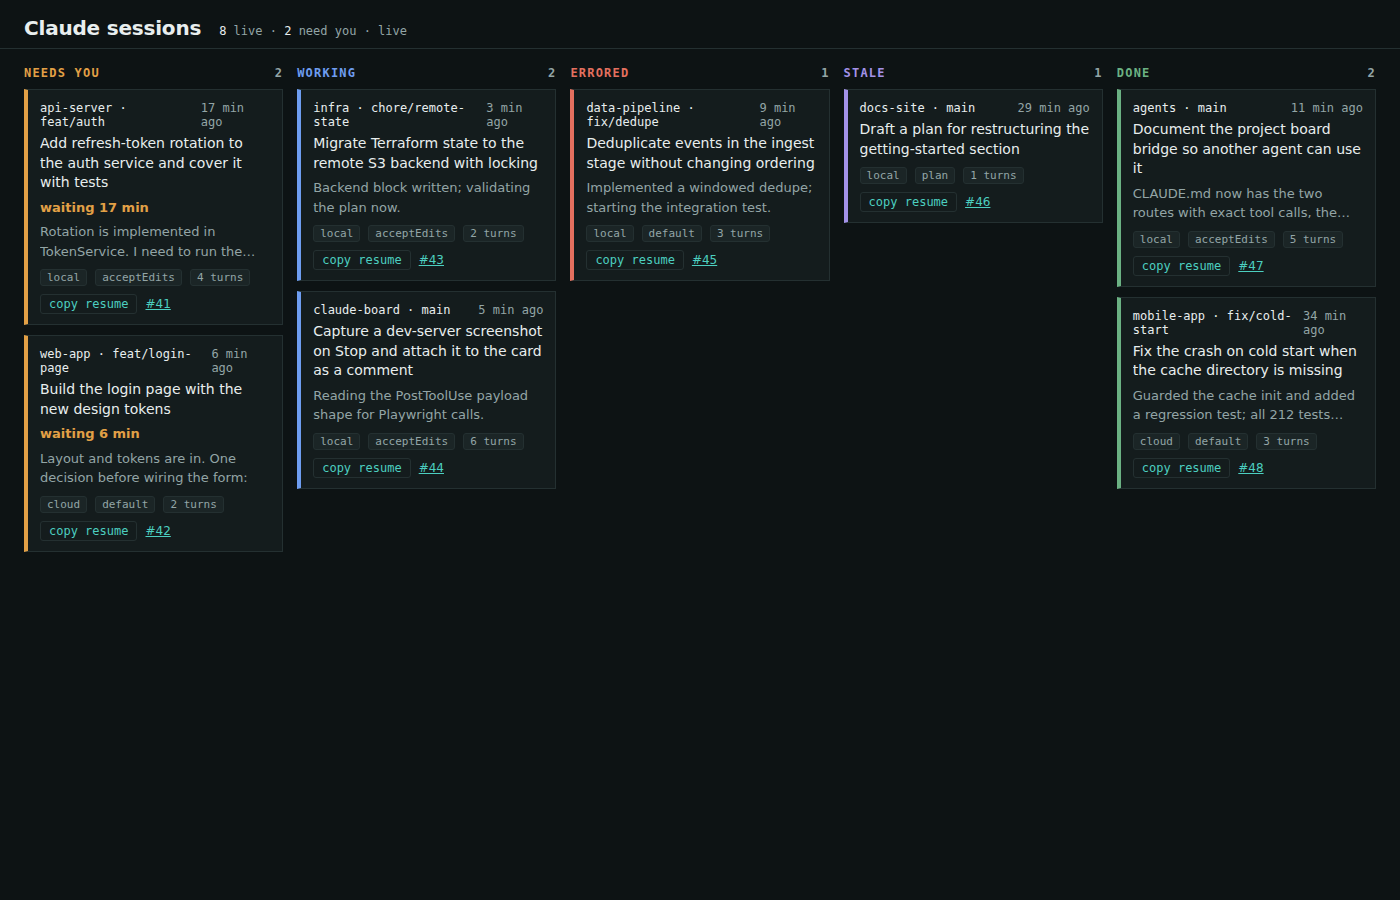
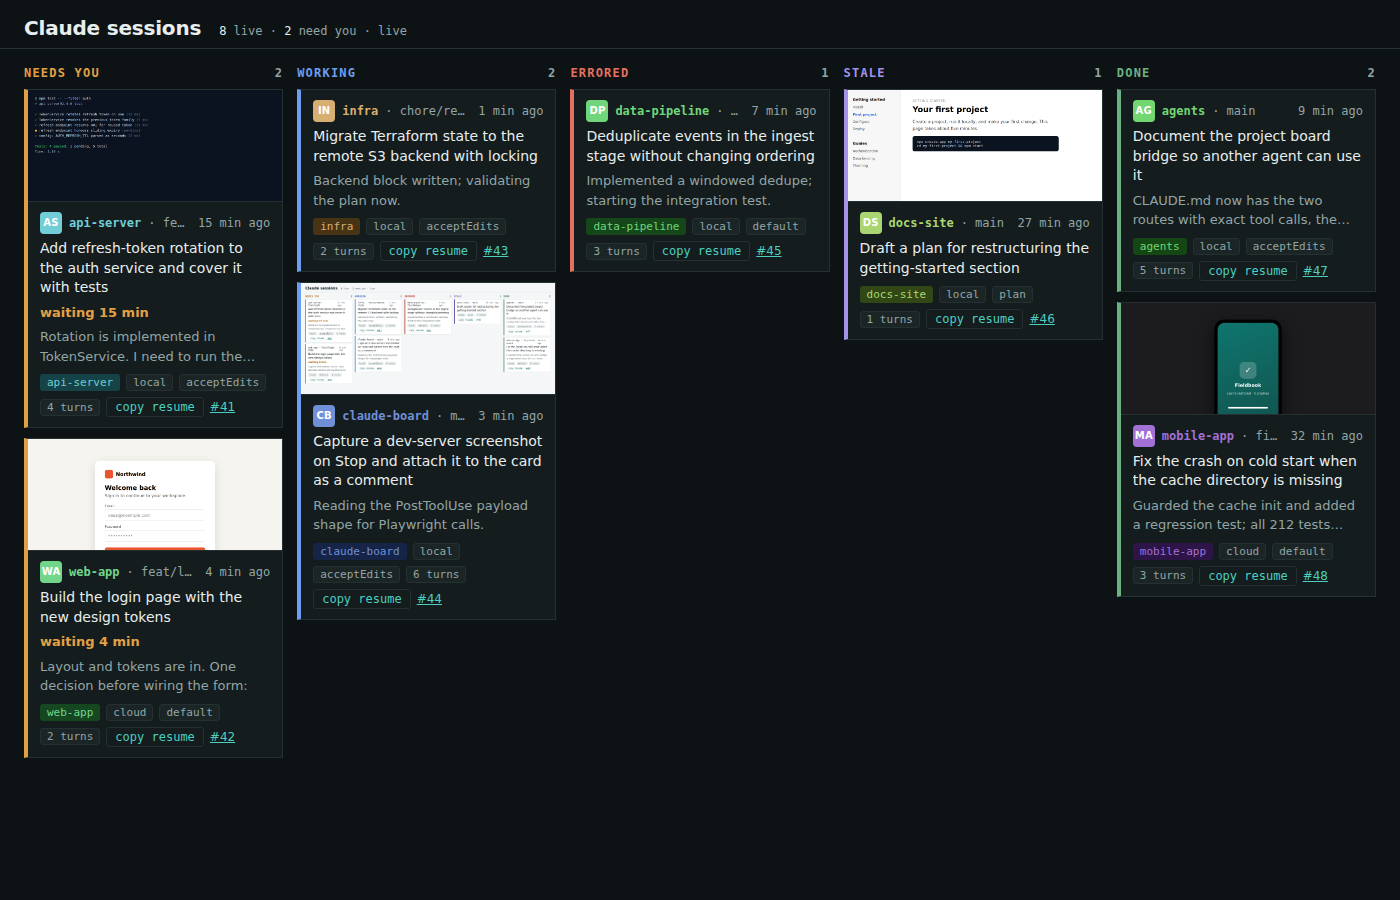
claude-board: per-project colors and card thumbnails (#9)
Status was the only color on a card, so two Working sessions on
different projects read identically. Each repository now gets a hue
derived from its name (src/color.js), the same on both surfaces: the
repo:<name> label color on GitHub, and the monogram tile, name and
project chip on the dashboard. Status keeps the left stripe.

Sessions can carry a thumbnail, shown full-width on the dashboard card.
Two intake paths: a session that writes .claude-board/thumbnail.png in
its working directory sets its own card art via the PostToolUse hook
already installed, and POST /sessions/:id/thumbnail accepts a PNG, JPEG
or WebP body (3 MB cap, same auth rule as /event). Files live under
<dataDir>/thumbs and are served at /thumbs/<file>. The issue body embeds
an image only when a public thumbnailUrl is known; nothing sets one yet.

Long repository names no longer break mid-word in the card header; the
branch ellipsizes instead and carries the full name as a tooltip.

README documents both features. Screenshots regenerated with example
sessions that carry thumbnails, plus a 2x close-up of the Needs-you
column. Four new unit tests cover hue determinism and spread, hex
conversion, label colors and monograms.

Claude-Session: https://claude.ai/code/session_01REbsjmfsB5A4AvEPk31Y9Q

Changed region(s): [[0.0, 0.0933, 0.9829, 0.84], [0.7986, 0.3422, 0.9829, 0.6533], [0.1536, 0.0933, 0.1843, 0.1244]]

diff --git a/claude-board/src/dashboard.js b/claude-board/src/dashboard.js
@@ -1,11 +1,13 @@
+import { projectHue, monogram } from './color.js';
+
 export function dashboardHtml() {
   return `<!doctype html>
 <html lang="en"><head><meta charset="utf-8"><meta name="viewport" content="width=device-width,initial-scale=1">
 <title>Claude sessions</title>
 <style>
-:root{--ground:#F4F6F7;--surface:#fff;--surface-2:#EAEFEF;--ink:#111819;--muted:#5C6B6D;--rule:#DBE2E2;--accent:#0F6E68;
+:root{--ground:#F4F6F7;--surface:#fff;--surface-2:#EAEFEF;--ink:#111819;--muted:#5C6B6D;--rule:#DBE2E2;--accent:#0F6E68;--psat:58%;--plum:40%;--pchip:92%;
  --working:#2A63C7;--needs_you:#B4650B;--errored:#B23A2E;--done:#3F7A52;--stale:#6E5BB0;--closed:#6B7280}
-@media (prefers-color-scheme:dark){:root{--ground:#0D1314;--surface:#141C1D;--surface-2:#1B2526;--ink:#E8EEEE;--muted:#93A5A6;--rule:#243031;--accent:#4CCFC0;
+@media (prefers-color-scheme:dark){:root{--ground:#0D1314;--surface:#141C1D;--surface-2:#1B2526;--ink:#E8EEEE;--muted:#93A5A6;--rule:#243031;--accent:#4CCFC0;--psat:55%;--plum:64%;--pchip:18%;
  --working:#6E9DF0;--needs_you:#E2A046;--errored:#E4705F;--done:#6BB183;--stale:#A392E8;--closed:#8B93A1}}
 *{box-sizing:border-box}body{margin:0;background:var(--ground);color:var(--ink);font:15px/1.5 "IBM Plex Sans",system-ui,sans-serif}
 header{display:flex;align-items:baseline;gap:18px;padding:18px 24px 10px;border-bottom:1px solid var(--rule)}
@@ -14,14 +16,20 @@ h1{font:600 20px/1 "IBM Plex Sans Condensed","IBM Plex Sans",system-ui,sans-seri
 .board{display:grid;grid-template-columns:repeat(auto-fit,minmax(236px,1fr));gap:14px;padding:18px 24px 40px}
 .col h2{font:600 12px/1 ui-monospace,Menlo,monospace;letter-spacing:.1em;text-transform:uppercase;color:var(--c);margin:0 0 10px;display:flex;justify-content:space-between}
 .col h2 span{color:var(--muted)}
-.card{background:var(--surface);border:1px solid var(--rule);border-left:4px solid var(--c);padding:11px 12px 10px;margin-bottom:10px;display:flex;flex-direction:column;gap:5px}
-.card .top{display:flex;justify-content:space-between;gap:8px;font:12px ui-monospace,Menlo,monospace;color:var(--muted)}
-.card .top b{color:var(--ink);font-weight:500}
+.card{--p:hsl(var(--h) var(--psat) var(--plum));background:var(--surface);border:1px solid var(--rule);border-left:4px solid var(--c);margin-bottom:10px;display:flex;flex-direction:column;overflow:hidden}
+.card .thumb{display:block;width:100%;height:112px;object-fit:cover;object-position:top;border-bottom:1px solid var(--rule);background:var(--surface-2)}
+.card .body{padding:10px 12px 10px;display:flex;flex-direction:column;gap:5px}
+.card .top{display:flex;align-items:center;gap:7px;font:12px ui-monospace,Menlo,monospace;color:var(--muted);min-width:0}
+.card .top .repo{color:var(--p);font-weight:600;white-space:nowrap}
+.card .top .branch{flex:1;min-width:0;overflow:hidden;text-overflow:ellipsis;white-space:nowrap}
+.card .top .when{margin-left:auto;white-space:nowrap;flex:none}
+.mono{flex:none;width:22px;height:22px;border-radius:4px;background:var(--p);color:#fff;font:700 10px/22px "IBM Plex Sans Condensed","IBM Plex Sans",system-ui,sans-serif;text-align:center;letter-spacing:.02em}
 .card .task{font-size:14px;line-height:1.4;display:-webkit-box;-webkit-line-clamp:3;-webkit-box-orient:vertical;overflow:hidden}
 .card .wait{color:var(--needs_you);font-weight:600;font-size:13px}
 .card .msg{font-size:13px;color:var(--muted);display:-webkit-box;-webkit-line-clamp:2;-webkit-box-orient:vertical;overflow:hidden}
-.card .foot{display:flex;gap:8px;align-items:center;flex-wrap:wrap;margin-top:3px}
+.card .foot{display:flex;gap:6px;align-items:center;flex-wrap:wrap;margin-top:3px}
 .chip{font:11px ui-monospace,Menlo,monospace;background:var(--surface-2);border:1px solid var(--rule);padding:1px 6px;border-radius:3px;color:var(--muted)}
+.chip.p{background:hsl(var(--h) var(--psat) var(--pchip));border-color:transparent;color:var(--p)}
 button{font:12px ui-monospace,Menlo,monospace;background:none;border:1px solid var(--rule);color:var(--accent);padding:2px 8px;border-radius:3px;cursor:pointer}
 button:hover{border-color:var(--accent)}a{color:var(--accent);font-size:12px}
 .empty{color:var(--muted);font-size:13px;border:1px dashed var(--rule);padding:10px 12px}
@@ -30,6 +38,8 @@ button:hover{border-color:var(--accent)}a{color:var(--accent);font-size:12px}
 <header><h1>Claude sessions</h1><div class="meta" id="meta">connecting…</div></header>
 <div class="board" id="board"></div>
 <script>
+${projectHue.toString()}
+${monogram.toString()}
 const COLS=[['needs_you','Needs you'],['working','Working'],['errored','Errored'],['stale','Stale'],['done','Done']];
 const esc=s=>String(s??'').replace(/[&<>"]/g,c=>({'&':'&amp;','<':'&lt;','>':'&gt;','"':'&quot;'}[c]));
 const ago=ms=>{const m=Math.round((Date.now()-ms)/60000);return m<1?'just now':m<60?m+' min ago':Math.round(m/60)+' h ago'};
@@ -43,14 +53,15 @@ function render(){
     const col=document.createElement('div');col.className='col';col.style.setProperty('--c','var(--'+key+')');
     col.innerHTML='<h2>'+label+'<span>'+items.length+'</span></h2>'+(items.length?'':'<div class="empty">—</div>');
     for(const s of items){
-      const d=document.createElement('div');d.className='card';d.style.setProperty('--c','var(--'+key+')');
+      const d=document.createElement('div');d.className='card';d.style.setProperty('--c','var(--'+key+')');d.style.setProperty('--h',projectHue(s.repo||''));
       const wait=key==='needs_you'&&s.blockedSince?'<div class="wait">waiting '+Math.round((now-s.blockedSince)/60000)+' min</div>':'';
       const resume=s.surface==='cloud'?'claude --teleport '+s.id:'claude --resume '+s.id;
-      d.innerHTML='<div class="top"><b>'+esc(s.repo||'?')+(s.branch?' · '+esc(s.branch):'')+'</b><span>'+ago(s.lastEventAt)+'</span></div>'
+      const thumb=s.thumbnail?'<img class="thumb" src="/thumbs/'+esc(s.thumbnail)+'?v='+(s.thumbnailAt||0)+'" alt="">':'';
+      d.innerHTML=thumb+'<div class="body"><div class="top"><span class="mono">'+esc(monogram(s.repo))+'</span><span class="repo">'+esc(s.repo||'?')+'</span>'+(s.branch?'<span class="branch" title="'+esc(s.branch)+'">· '+esc(s.branch)+'</span>':'<span class="branch"></span>')+'<span class="when">'+ago(s.lastEventAt)+'</span></div>'
        +'<div class="task">'+esc(s.currentPrompt||'(no prompt yet)')+'</div>'+wait
        +(s.lastAssistantMessage?'<div class="msg">'+esc(s.lastAssistantMessage)+'</div>':'')
-       +'<div class="foot"><span class="chip">'+esc(s.surface)+'</span>'+(s.permissionMode?'<span class="chip">'+esc(s.permissionMode)+'</span>':'')+'<span class="chip">'+s.turnCount+' turns</span>'
-       +'<button data-cmd="'+esc(resume)+'">copy resume</button>'+(s.issue&&s.issue.url?'<a href="'+esc(s.issue.url)+'" target="_blank">#'+s.issue.number+'</a>':'')+'</div>';
+       +'<div class="foot"><span class="chip p">'+esc(s.repo||'?')+'</span><span class="chip">'+esc(s.surface)+'</span>'+(s.permissionMode?'<span class="chip">'+esc(s.permissionMode)+'</span>':'')+'<span class="chip">'+s.turnCount+' turns</span>'
+       +'<button data-cmd="'+esc(resume)+'">copy resume</button>'+(s.issue&&s.issue.url?'<a href="'+esc(s.issue.url)+'" target="_blank">#'+s.issue.number+'</a>':'')+'</div></div>';
       col.appendChild(d);
     }
     b.appendChild(col);

diff --git a/claude-board/src/server.js b/claude-board/src/server.js
@@ -1,13 +1,21 @@
 import http from 'node:http';
+import fs from 'node:fs';
+import path from 'node:path';
 import { apply, sweepStale } from './machine.js';
 import { gitInfo } from './git.js';
 import { dashboardHtml } from './dashboard.js';
 
 const LOOPBACK = new Set(['127.0.0.1', '::1', '::ffff:127.0.0.1']);
+const IMAGE_TYPES = { 'image/png': 'png', 'image/jpeg': 'jpg', 'image/webp': 'webp' };
+const IMAGE_EXT = { png: 'image/png', jpg: 'image/jpeg', jpeg: 'image/jpeg', webp: 'image/webp' };
+const THUMB_CONVENTION = /[\\/]\.claude-board[\\/]thumbnail\.(png|jpe?g|webp)$/i;
+const MAX_THUMB = 3 * 1024 * 1024;
 
 /**
  * The daemon's HTTP surface:
  *   POST /event         hook receiver (Claude Code http hooks)
+ *   POST /sessions/:id/thumbnail   image body (png/jpeg/webp) → card thumbnail
+ *   GET  /thumbs/:file  thumbnails
  *   GET  /              dashboard
  *   GET  /events        SSE stream of full state
  *   GET  /api/sessions  JSON
@@ -15,6 +23,17 @@ const LOOPBACK = new Set(['127.0.0.1', '::1', '::ffff:127.0.0.1']);
  */
 export function createServer({ cfg, store, syncer, log = () => {} }) {
   const clients = new Set();
+  const thumbDir = path.join(cfg.dataDir, 'thumbs');
+  fs.mkdirSync(thumbDir, { recursive: true });
+
+  /** Store an image for a session and point the card at it. */
+  function setThumbnail(s, buf, ext) {
+    const file = `${s.id}.${ext}`;
+    fs.writeFileSync(path.join(thumbDir, file), buf);
+    s.thumbnail = file; s.thumbnailAt = Date.now();
+    store.put(s);
+    syncer.markDirty(s.id);
+  }
 
   const snapshot = () => ({
     sessions: store.list(),
@@ -52,6 +71,18 @@ export function createServer({ cfg, store, syncer, log = () => {} }) {
     const prev = store.get(ev.session_id);
     const next = apply(prev, ev, now, { needsYou: cfg.needsYou });
     store.put(next);
+
+    // Convention: a session that writes .claude-board/thumbnail.png in its cwd sets its own card art.
+    if (ev.hook_event_name === 'PostToolUse' && ev.__surface === 'local') {
+      const fp = ev.tool_input?.file_path;
+      const m = fp && fp.match(THUMB_CONVENTION);
+      if (m && fs.existsSync(fp)) {
+        try {
+          const st = fs.statSync(fp);
+          if (st.size <= MAX_THUMB) { setThumbnail(next, fs.readFileSync(fp), m[1].toLowerCase().replace('jpeg', 'jpg')); log(`thumbnail: ${next.id.slice(0, 8)} from ${fp}`); }
+        } catch (e) { log('thumbnail: ' + e.message); }
+      }
+    }
     syncer.markDirty(next.id);
     broadcast();
     log(`event: ${ev.hook_event_name}${ev.notification_type ? '/' + ev.notification_type : ''} ${next.id.slice(0, 8)} → ${next.status}`);
@@ -72,6 +103,26 @@ export function createServer({ cfg, store, syncer, log = () => {} }) {
       req.on('data', c => { raw += c; if (raw.length > 5e6) req.destroy(); });
       req.on('end', () => handleEvent(req, res, raw).catch(e => { log('event error: ' + e.message); reply(res, 500, { error: e.message }); }));
       return;
+    }
+    const thumbPost = req.method === 'POST' && url.pathname.match(/^\/sessions\/([^/]+)\/thumbnail$/);
+    if (thumbPost) {
+      if (!authorized(req)) return reply(res, 403, { error: 'unauthorized' });
+      const ext = IMAGE_TYPES[(req.headers['content-type'] || '').split(';')[0].trim()];
+      if (!ext) return reply(res, 415, { error: 'send image/png, image/jpeg or image/webp' });
+      const s = store.get(decodeURIComponent(thumbPost[1]));
+      if (!s) return reply(res, 404, { error: 'unknown session' });
+      const chunks = []; let size = 0;
+      req.on('data', c => { size += c.length; if (size > MAX_THUMB) { req.destroy(); return; } chunks.push(c); });
+      req.on('end', () => { setThumbnail(s, Buffer.concat(chunks), ext); broadcast(); reply(res, 200, { thumbnail: `/thumbs/${s.thumbnail}` }); });
+      return;
+    }
+    if (req.method === 'GET' && url.pathname.startsWith('/thumbs/')) {
+      const file = path.basename(url.pathname);
+      const type = IMAGE_EXT[file.split('.').pop().toLowerCase()];
+      const full = path.join(thumbDir, file);
+      if (!type || !fs.existsSync(full)) return reply(res, 404, { error: 'not found' });
+      res.writeHead(200, { 'Content-Type': type, 'Cache-Control': 'no-cache' });
+      return fs.createReadStream(full).pipe(res);
     }
     if (req.method === 'GET' && url.pathname === '/health') return reply(res, 200, { ok: true, sessions: store.list().length, dryRun: cfg.dryRun });
     if (req.method === 'GET' && url.pathname === '/api/sessions') return reply(res, 200, snapshot());

diff --git a/claude-board/test/color.test.js b/claude-board/test/color.test.js
@@ -1,0 +1,30 @@
+import test from 'node:test';
+import assert from 'node:assert/strict';
+import { projectHue, projectHex, hslHex, monogram } from '../src/color.js';
+import { labelDef } from '../src/render.js';
+
+test('project hue is deterministic and spread', () => {
+  assert.equal(projectHue('api-server'), projectHue('api-server'));
+  const hues = ['api-server', 'web-app', 'infra', 'claude-board', 'agents', 'docs-site', 'mobile-app', 'data-pipeline'].map(projectHue);
+  assert.equal(new Set(hues).size, hues.length, 'eight common names get eight distinct hues: ' + hues.join(','));
+  for (const h of hues) assert.ok(h >= 0 && h < 360);
+});
+
+test('hslHex produces valid hex and known anchors', () => {
+  assert.equal(hslHex(0, 100, 50), 'FF0000');
+  assert.equal(hslHex(120, 100, 25), '008000');
+  assert.match(projectHex('anything'), /^[0-9A-F]{6}$/);
+});
+
+test('repo labels take the project color; other kinds keep theirs', () => {
+  assert.equal(labelDef('repo:api-server').color, projectHex('api-server'));
+  assert.notEqual(labelDef('repo:api-server').color, labelDef('repo:web-app').color);
+  assert.equal(labelDef('surface:cloud').color, '4B5563');
+});
+
+test('monogram', () => {
+  assert.equal(monogram('api-server'), 'AS');
+  assert.equal(monogram('agents'), 'AG');
+  assert.equal(monogram('claude_board.v2'), 'CB');
+  assert.equal(monogram(''), '?');
+});

diff --git a/claude-board/src/render.js b/claude-board/src/render.js
@@ -1,4 +1,5 @@
 import { STATUS_META } from './machine.js';
+import { projectHex } from './color.js';
 
 const clip = (s, n) => {
   if (!s) return '';
@@ -44,8 +45,9 @@ export function labelDef(name) {
     const meta = STATUS_META[key];
     return { name, color: meta ? meta.hex : '6B7280', description: meta ? `Session is ${meta.label.toLowerCase()}` : '' };
   }
-  const palette = { repo: '0E7490', surface: '4B5563', mode: '7C3AED', model: '0F766E' };
-  const desc = { repo: 'Repository the session is working in', surface: 'Where the session runs', mode: 'Permission mode', model: 'Model' };
+  if (kind === 'repo') return { name, color: projectHex(val), description: `Repository: ${val}` };
+  const palette = { surface: '4B5563', mode: '7C3AED', model: '0F766E' };
+  const desc = { surface: 'Where the session runs', mode: 'Permission mode', model: 'Model' };
   return { name, color: palette[kind] || '6B7280', description: desc[kind] || '' };
 }
 
@@ -90,6 +92,7 @@ export function body(s, { now = Date.now(), issueRepo = '' } = {}) {
   }
   if (s.cwd) out.push(`\`cd ${s.cwd}\``);
   out.push('');
+  if (s.thumbnailUrl) { out.push(`![Latest screenshot](${s.thumbnailUrl})`); out.push(''); }
   out.push('## Current task');
   out.push(s.currentPrompt ? quote(clip(s.currentPrompt, 1500)) : '_No prompt received yet._');
   out.push('');

diff --git a/claude-board/src/color.js b/claude-board/src/color.js
@@ -1,0 +1,29 @@
+/**
+ * Deterministic per-project color. The same repo name always yields the same
+ * hue, on the board (label color) and on the dashboard alike. Kept dependency
+ * free and tiny so the dashboard can inline it.
+ */
+export function projectHue(name) {
+  let h = 2166136261;
+  for (const ch of String(name || '')) { h ^= ch.charCodeAt(0); h = Math.imul(h, 16777619) >>> 0; }
+  return h % 360;
+}
+
+/** HSL → 6-digit hex without '#'. */
+export function hslHex(h, s, l) {
+  s /= 100; l /= 100;
+  const k = n => (n + h / 30) % 12;
+  const a = s * Math.min(l, 1 - l);
+  const f = n => Math.round(255 * (l - a * Math.max(-1, Math.min(k(n) - 3, Math.min(9 - k(n), 1)))));
+  return [f(0), f(8), f(4)].map(v => v.toString(16).padStart(2, '0')).join('').toUpperCase();
+}
+
+/** Label color for a repo: saturated enough to read as a hue, dark enough for white text. */
+export function projectHex(name) { return hslHex(projectHue(name), 58, 38); }
+
+/** Two-letter monogram for a repo name: "api-server" → "AS", "agents" → "AG". */
+export function monogram(name) {
+  const parts = String(name || '?').split(/[-_./\s]+/).filter(Boolean);
+  const m = parts.length >= 2 ? parts[0][0] + parts[1][0] : (parts[0] || '?').slice(0, 2);
+  return m.toUpperCase();
+}

diff --git a/claude-board/src/machine.js b/claude-board/src/machine.js
@@ -45,6 +45,9 @@ export function newSession(id, now) {
     tasks: [],          // {id, description, done}
     notifications: [],  // {type, message, at}
     issue: null,        // {number, url, nodeId, itemId}
+    thumbnail: null,    // file name under <dataDir>/thumbs, served at /thumbs/<file>
+    thumbnailAt: null,
+    thumbnailUrl: null, // public URL when one exists (for the issue body)
     lastSeenCommentAt: null,
   };
 }

diff --git a/claude-board/README.md b/claude-board/README.md
@@ -25,12 +25,17 @@ Zero dependencies. Node 20+.
 
 ## What it looks like
 
-The local dashboard, with example sessions in every column. Needs-you cards sort
-by how long they've been waiting; every card has a copy-to-clipboard resume command.
+The local dashboard, with example sessions in every column. The left stripe is the
+column's status color; each project has its own color for the monogram tile, name
+and chip, so `api-server` looks the same wherever it shows up. Sessions that have
+something to show carry a thumbnail. Needs-you cards sort by how long they've been
+waiting; every card has a copy-to-clipboard resume command.
 
 ![Dashboard, light theme](docs/screenshots/dashboard-light.png)
 
 ![Dashboard, dark theme](docs/screenshots/dashboard-dark.png)
+
+![Two Needs-you cards, close up](docs/screenshots/cards-closeup.png)
 
 A card opened on GitHub: the issue body the daemon maintains for the top
 Needs-you session. Shown here with approximate styling; on github.com the
@@ -109,6 +114,47 @@ Emoji is the one color that renders everywhere; it updates on every state change
 
 Card faces never render images from the body. If you want screenshots at a
 glance, that's what the local dashboard is for.
+
+## Project colors
+
+Every repository gets a color derived from its name, the same on both surfaces:
+on GitHub it's the color of the `repo:<name>` label, on the dashboard it's the
+monogram tile, the repo name and the project chip. Status stays the dominant
+signal (column, left stripe, title emoji); project color is the second glance
+that tells two Working cards apart. No configuration — `api-server` is the same
+hue on every machine.
+
+## Thumbnails
+
+A session can carry an image, shown full-width on its dashboard card. Card faces
+on GitHub never render images, so this is dashboard-first; the issue body embeds
+it only when a public URL is known (`thumbnailUrl`), which nothing sets today.
+
+Three ways a thumbnail gets set, in the order you'll use them:
+
+1. **The agent decides.** If a session writes `.claude-board/thumbnail.png` (or
+   `.jpg` / `.webp`) inside its working directory, the `PostToolUse` hook already
+   installed notices the write and the daemon picks the file up. Add one line to
+   a project's `CLAUDE.md` — *"when you have built something visual, save a
+   screenshot to `.claude-board/thumbnail.png`"* — and agents working on UI will
+   do it while agents refactoring a parser won't. Add `.claude-board/` to that
+   project's `.gitignore`.
+
+2. **Anything with curl.** A skill, a hook command, or the agent itself:
+
+   ```bash
+   curl -X POST -H 'Content-Type: image/png' --data-binary @shot.png \
+     http://127.0.0.1:7777/sessions/<session_id>/thumbnail
+   ```
+
+   Same auth rule as `/event`: loopback is open, anything else needs the bearer.
+   Up to 3 MB; PNG, JPEG or WebP.
+
+3. **Capture on Stop.** Not built in — every project's dev server is different.
+   A `Stop` command hook that runs `playwright screenshot <url> .claude-board/thumbnail.png`
+   gets you there in two lines, and route 1 takes over from there.
+
+Thumbnails live in `~/.claude-board/thumbs/` and are served at `/thumbs/<file>`.
 
 ## Talk back to a session
 
